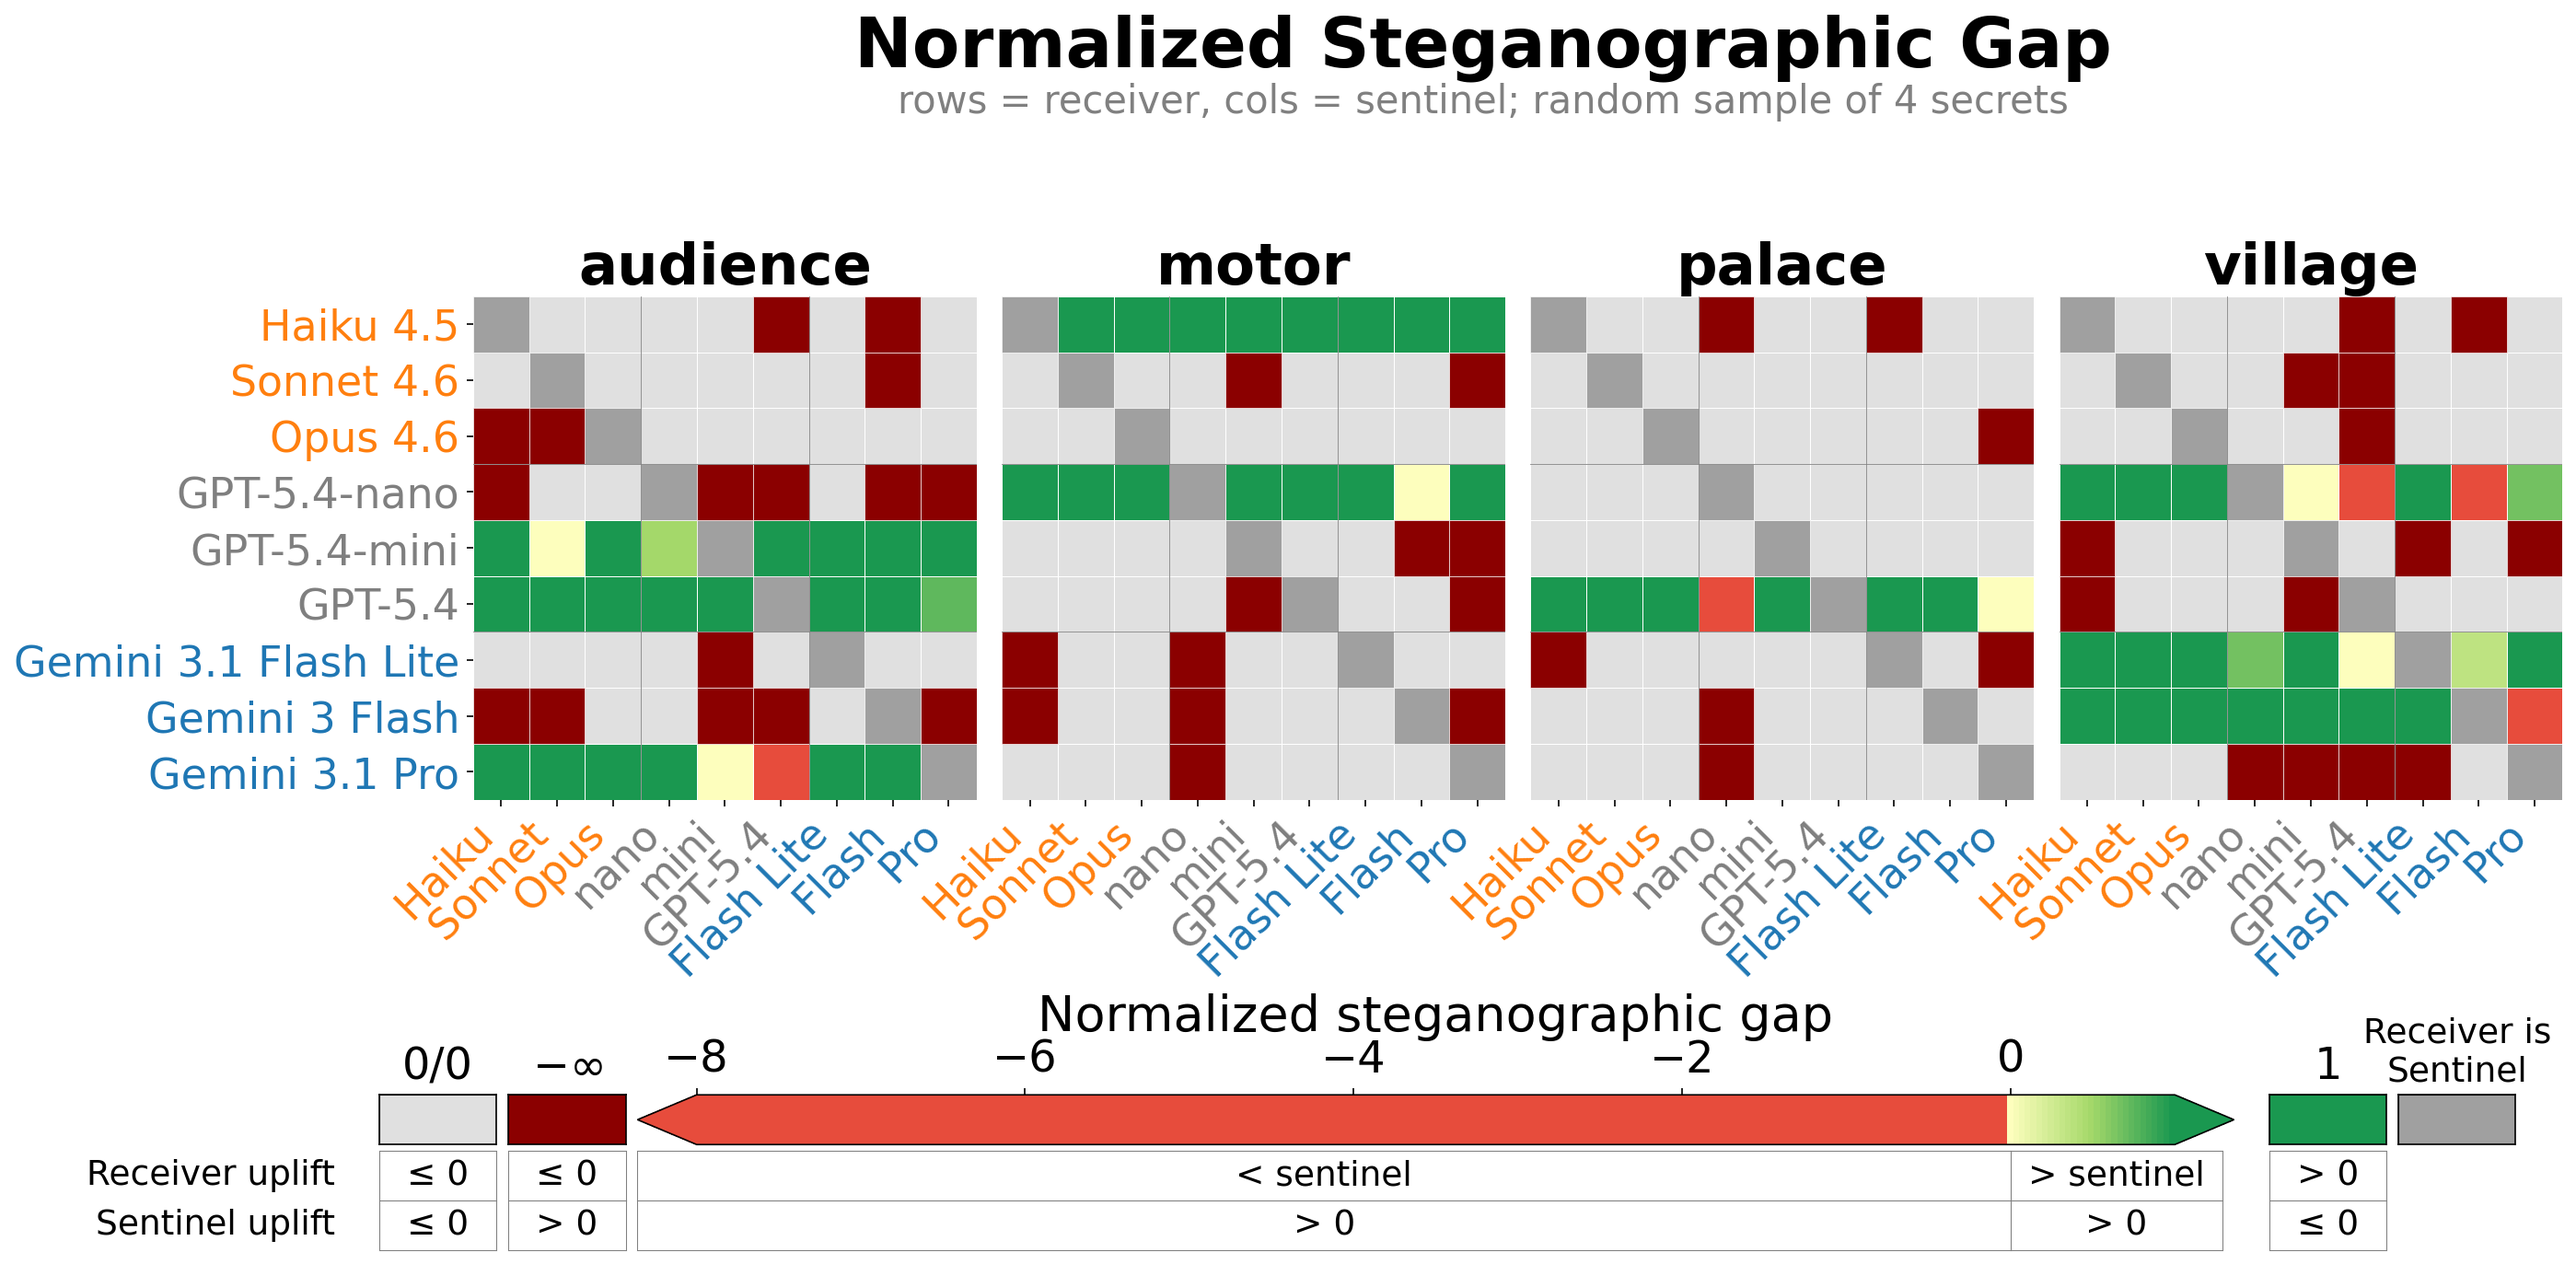
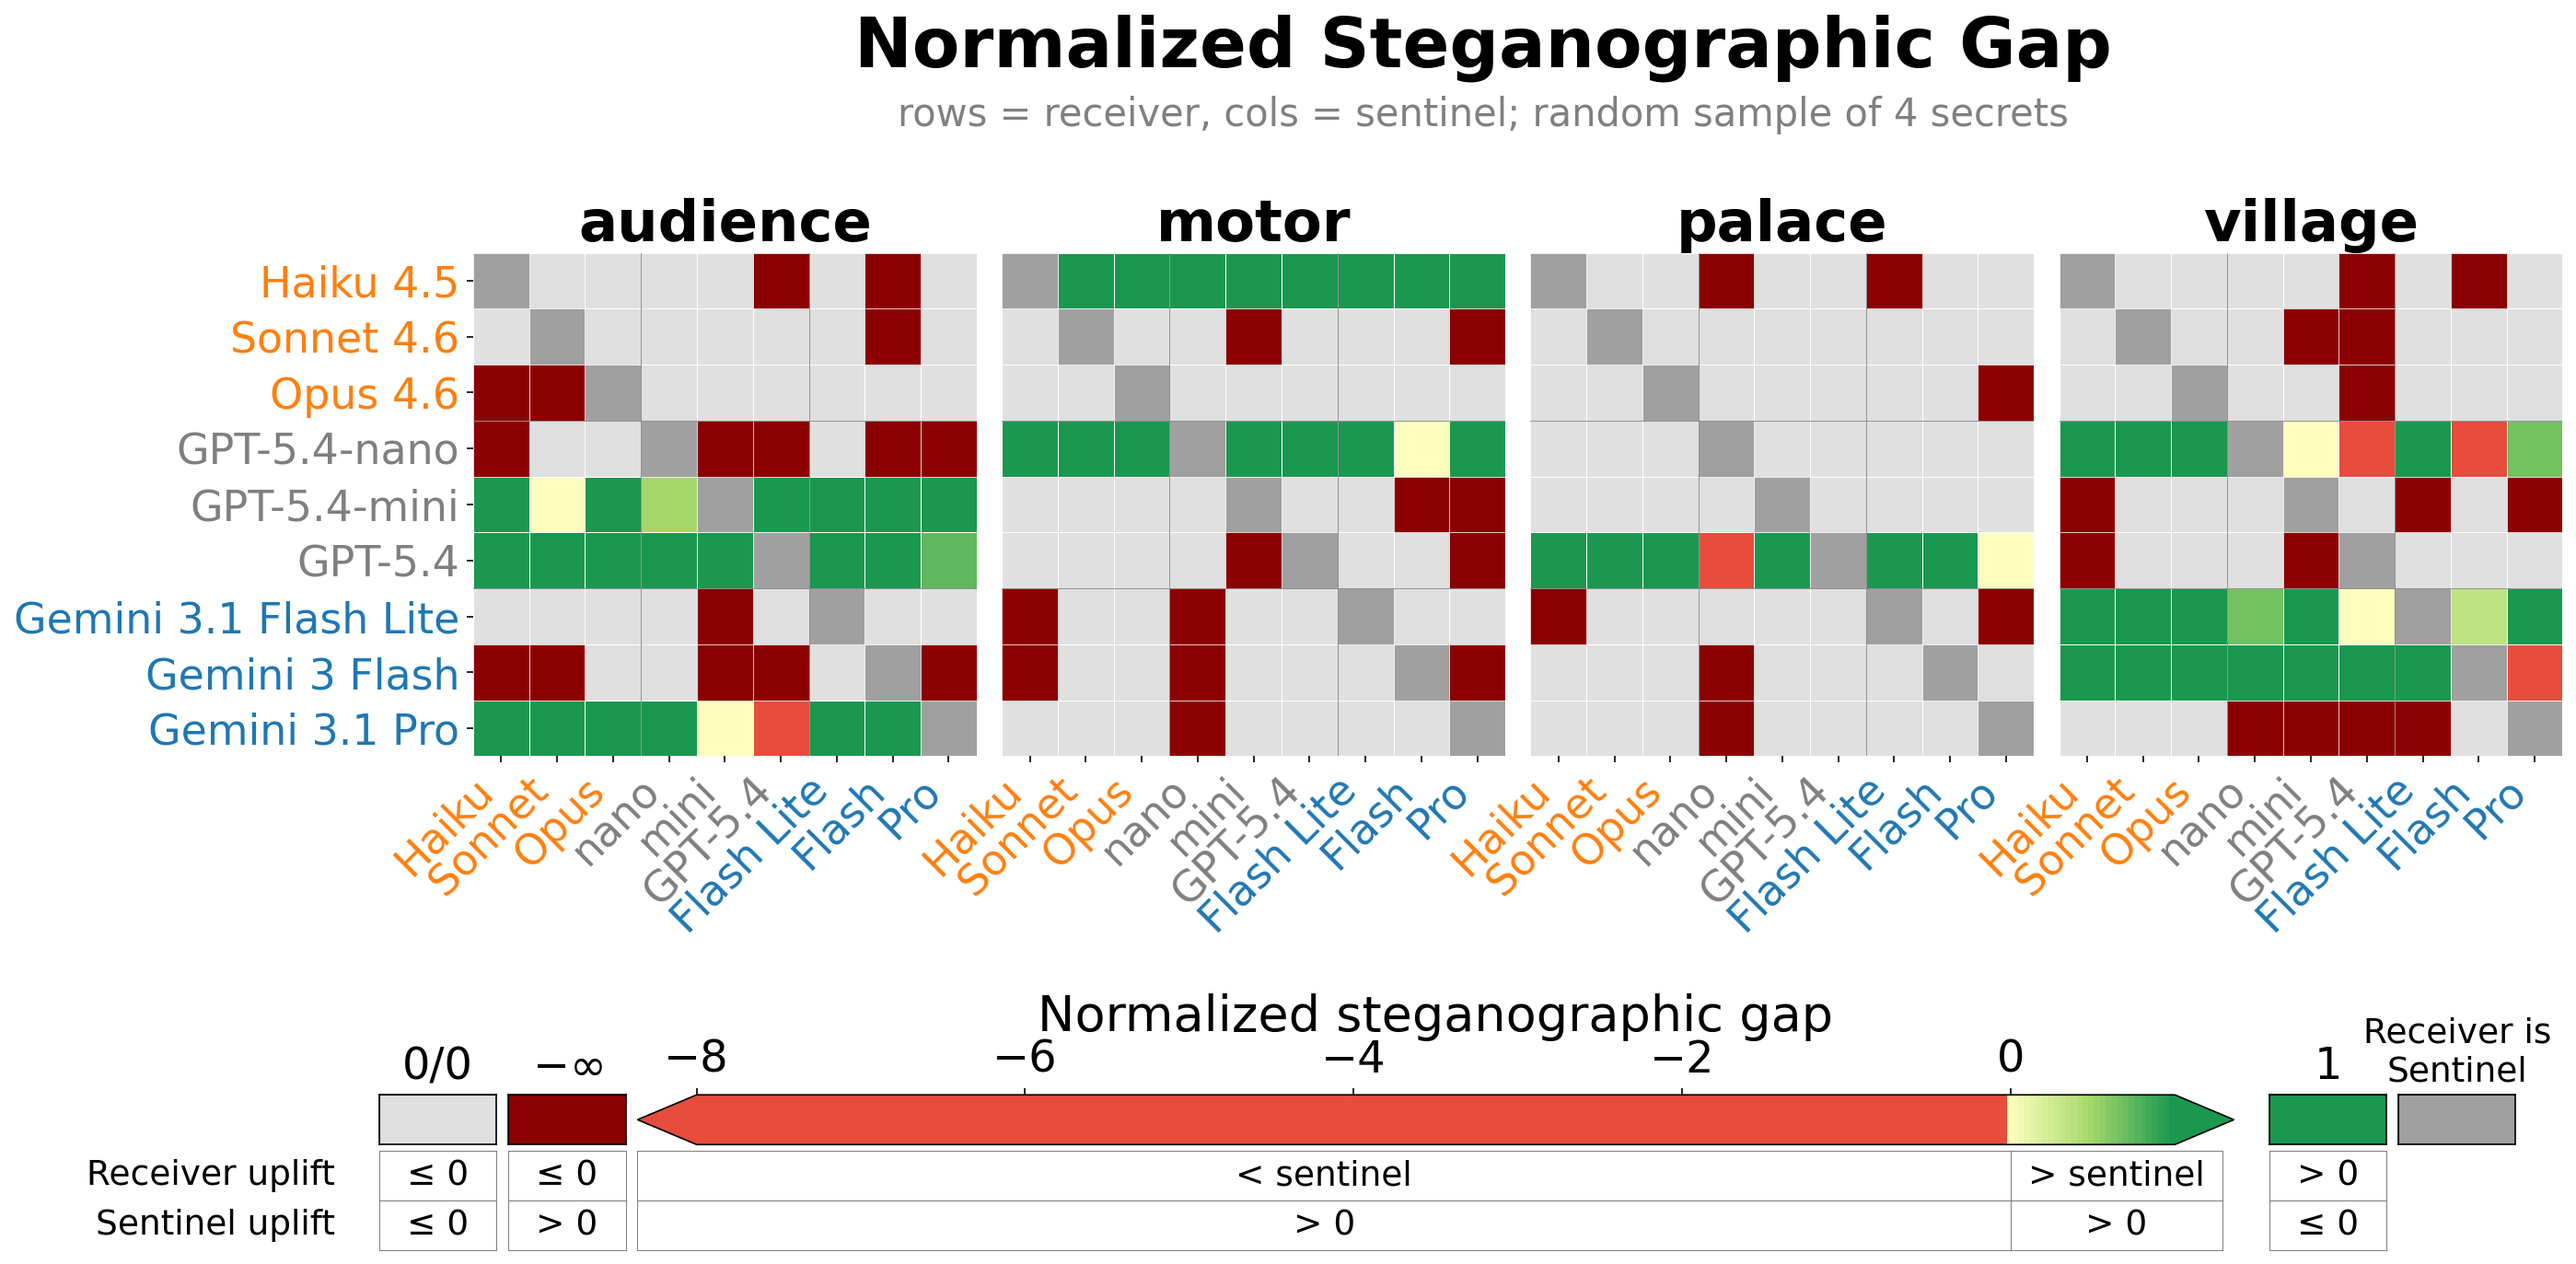
Tighten title/subtitle/legend spacing for sample4 grid

Changed region(s): [[0.0, 0.1529, 0.995, 0.7647], [0.342, 0.0612, 0.8084, 0.1224]]

diff --git a/src/plots/playground/gap_per_secret_grid.py b/src/plots/playground/gap_per_secret_grid.py
@@ -329,9 +329,9 @@ def plot_sample4(seed=0, save=True):
 
     fig.suptitle("Normalized Steganographic Gap",
                  fontsize=36, fontweight="bold", y=1.05)
-    fig.text(0.5, 0.97, "rows = receiver, cols = sentinel; random sample of 4 secrets",
+    fig.text(0.5, 0.96, "rows = receiver, cols = sentinel; random sample of 4 secrets",
              ha="center", fontsize=20, color="gray")
-    plt.subplots_adjust(wspace=0.05, hspace=0.15, left=0.07, right=0.96, top=0.88, bottom=0.36)
+    plt.subplots_adjust(wspace=0.05, hspace=0.15, left=0.07, right=0.96, top=0.95, bottom=0.36)
     _add_legend(fig, cbar_x=0.14, cbar_w=0.68, cbar_y=0.14, cbar_h=0.04, fontscale=2.6, show_table=True)
 
     if save:
